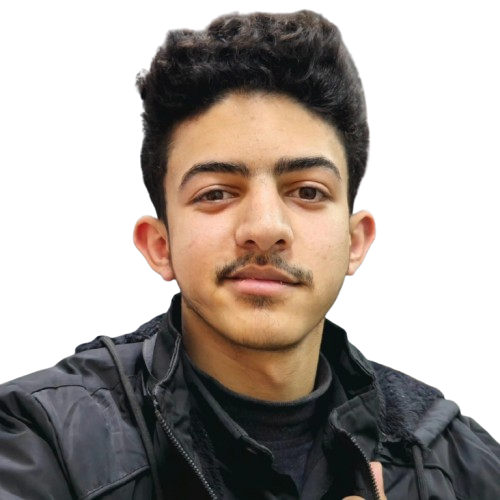
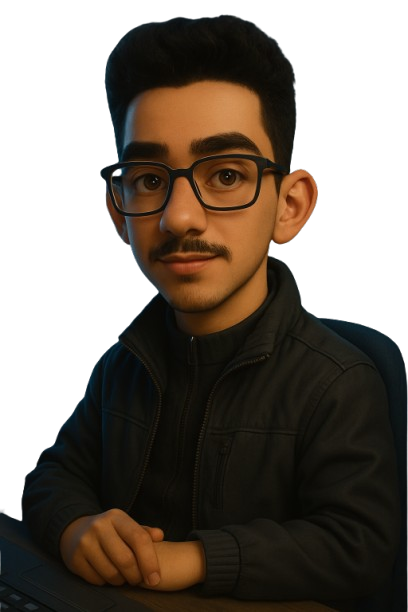
update 0.2

diff --git a/index.html b/index.html
@@ -10,6 +10,7 @@
         <link href='https://unpkg.com/boxicons@2.1.4/css/boxicons.min.css' rel='stylesheet'>
 
         <title>Alsaeyd Alakhras</title>
+        <link rel="shortcut icon" href="assets/img/favicon.png" type="image/x-icon">
     </head>
     <body>
         <!--===== HEADER =====-->
@@ -39,9 +40,16 @@
             <!--===== HOME =====-->
             <section class="home bd-grid" id="home">
                 <div class="home__data">
-                    <h1 class="home__title">Hi, I'am <br><span class="home__title-color">Alsaeyd Alakhras</span><br> Full Stack Developer</h1>
+                    <h1 class="home__title">
+                        Hi, I'am <br>
+                        <span class="home__title-color">Alsaeyd Alakhras</span>
+                        <br> 
+                        <span id="job-title">Full Stack Developer</span>
+                    </h1>
 
-                    <a href="https://www.facebook.com/saeyd.jamal.545" target="_blank" class="button">Contact</a>
+                    <a href="https://wa.me/972594318545?text=هل أنت متاح حاليا" target="_blank" class="button">
+                        Contact in <i class="bx bxl-whatsapp"></i>
+                    </a>
                 </div>
 
                 <div class="home__social">
@@ -49,6 +57,7 @@
                     <a target="_blank" href="https://www.facebook.com/saeyd.jamal.545" class="home__social-icon"><i class='bx bxl-facebook'></i></a>
                     <a target="_blank" href="https://www.instagram.com/saeyd_jamal/" class="home__social-icon"><i class='bx bxl-instagram'></i></a>
                     <a target="_blank" href="https://github.com/Saeyd-Jamal" class="home__social-icon"><i class='bx bxl-github' ></i></a>
+                    <a target="_blank" href="https://wa.me/972594318545?text=هل أنت متاح حاليا" class="home__social-icon"><i class='bx bxl-whatsapp' ></i></a>
                 </div>
 
                 <div class="home__img">
@@ -70,7 +79,7 @@
 
                 <div class="about__container bd-grid">
                     <div class="about__img">
-                        <img src="assets/img/about.jpg" alt="">
+                        <img src="assets/img/about.jpg" alt="" id="about-image">
                     </div>
                     
                     <div>
@@ -306,6 +315,7 @@
                 <a target="_blank" href="https://www.facebook.com/saeyd.jamal.545" class="footer__icon"><i class='bx bxl-facebook'></i></a>
                 <a target="_blank" href="https://www.instagram.com/saeyd_jamal/" class="footer__icon"><i class='bx bxl-instagram'></i></a>
                 <a target="_blank" href="https://github.com/Saeyd-Jamal" class="footer__icon"><i class='bx bxl-github' ></i></a>
+                <a target="_blank" href="https://wa.me/972594318545?text=هل أنت متاح حاليا" class="footer__icon"><i class='bx bxl-whatsapp' ></i></a>
             </div>
         </footer>
 

diff --git a/assets/js/main.js b/assets/js/main.js
@@ -55,3 +55,58 @@ sr.reveal('.home__data, .about__img, .skills__subtitle, .skills__text',{});
 sr.reveal('.home__img, .about__subtitle, .about__text, .skills__img',{delay: 400}); 
 sr.reveal('.home__social-icon',{ interval: 200}); 
 sr.reveal('.skills__data, .work__img, .contact__input',{interval: 200}); 
+
+
+// Job Title Animation
+const jobTitles = [
+    "Web Developer", 
+    "Laravel Developer", 
+    "Vue.js Specialist",
+];
+
+let currentTitle = 0;
+let currentChar = 0;
+let currentText = '';
+const jobTitleElement = document.getElementById('job-title');
+
+function changeTitle() {
+    currentText = jobTitles[currentTitle];
+    jobTitleElement.textContent = '';
+    currentChar = 0;
+    typeEffect();
+}
+
+function typeEffect() {
+    if (currentChar < currentText.length) {
+        jobTitleElement.textContent += currentText.charAt(currentChar);
+        currentChar++;
+        setTimeout(typeEffect, 150); // Delay to simulate typing
+    } else {
+        setTimeout(() => {
+            currentTitle = (currentTitle + 1) % jobTitles.length;
+            changeTitle();
+        }, 1000); // Wait for 2 seconds before switching to the next job title
+    }
+}
+
+changeTitle();
+
+
+// Change About Image
+function changeImage() {
+    const imgElement = document.getElementById('about-image');
+    
+    // Fade out the current image
+    imgElement.style.opacity = 0;
+    
+    setTimeout(() => {
+        // Change image source after fade out
+        imgElement.src = imgElement.src.includes('about.jpg') ? 'assets/img/about2.jpg' : 'assets/img/about.jpg';
+        
+        // Fade in the new image
+        imgElement.style.opacity = 1;
+    }, 1000); // Wait for 1 second to complete the fade out effect
+}
+
+// Change image every 1.5 seconds
+setInterval(changeImage, 3000);

diff --git a/assets/css/styles.css b/assets/css/styles.css
@@ -248,6 +248,7 @@ img {
 .about__img img {
   width: 200px;
   border-radius: 0.5rem;
+  transition: opacity 1s ease-in-out;
 }
 
 /* ===== SKILLS =====*/
